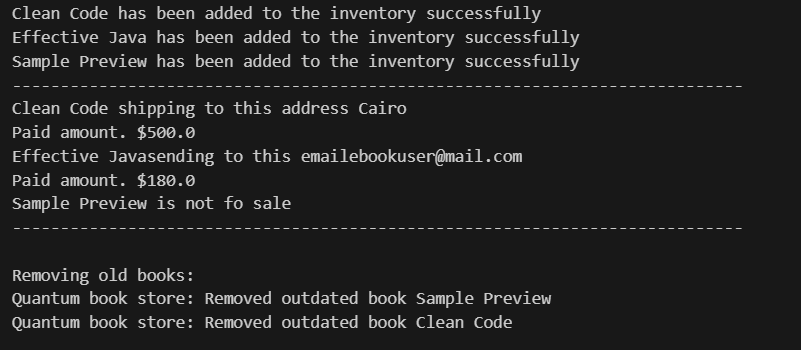
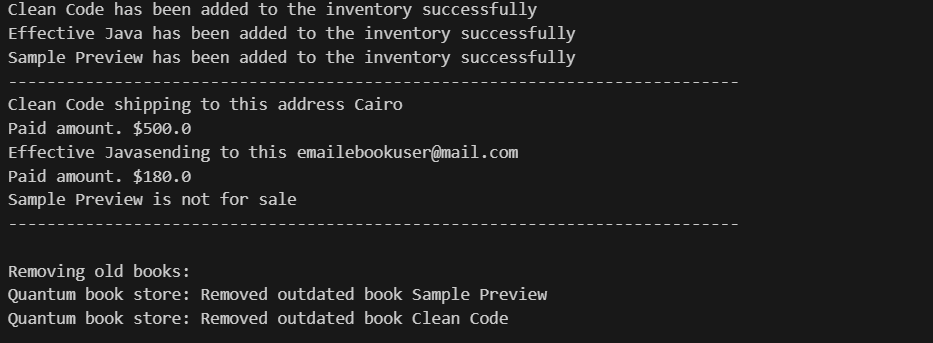
Remove .class file

diff --git a/src/behavior/ShowCase.java b/src/behavior/ShowCase.java
@@ -4,6 +4,6 @@ import model.Book;
 
 public class ShowCase implements BookBehavior{
     public double sell(Book book, int quantity, String email, String Address){
-        throw new RuntimeException( book.getTitle() +  " is not fo sale");
+        throw new RuntimeException( book.getTitle() +  " is not for sale");
     }
 }

diff --git a/src/services/MailService.java b/src/services/MailService.java
@@ -4,6 +4,6 @@ import model.Book;
 
 public class MailService {
     public void send(Book book, String email){
-        System.out.println(book.getTitle() + "sending to this email" + email);
+        System.out.println(book.getTitle() + "sending to this email " + email);
     }
 }
